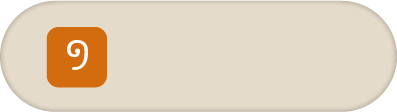
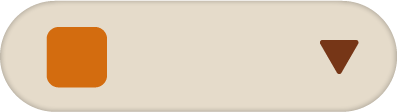
delete and validation on account

Changed region(s): [[0.7859, 0.3482, 0.9068, 0.6696], [0.1511, 0.3482, 0.2418, 0.6429]]

diff --git a/www/css/account.min.css b/www/css/account.min.css
@@ -1,1 +1,1 @@
-@font-face{font-family:'Daun Teav';src:url(../fonts/DaunTeav.ttf);src:url(../fonts/DaunTeav.ttf) format("truetype"),url(../fonts/DaunTeav.woff) format("woff"),url(../fonts/DaunTeav.woff2) format("woff2"),url(../fonts/DaunTeav.eot?#iefix) format("embedded-opentype"),url(../fonts/DaunTeav.svg#AngDaunTeav) format("svg");font-weight:400;font-style:normal}ion-view{font-family:"Daun Teav"!important}.app-background{background:url(../img/app-background.png) center center no-repeat fixed;background-size:cover}.activated{opacity:.3}.account-panel{display:block;background:url(../img/account/account.png) center center no-repeat;background-size:92% 92%;height:90%;margin-top:3.5%;width:100%}.split-left{display:inline-block;position:relative;float:left;width:40%;height:100%}.split-right{display:inline-block;position:relative;width:50%;height:60%}.account-previous{display:inline-block;float:left;background:url(../img/account/previous.png) 44.6% 48% no-repeat fixed;background-size:2.4%;width:13%;height:100%}.avatar-selection{display:inline-block;width:37%;height:59%;position:fixed;margin-top:3%}.avatar-selection div:last-child{position:relative;background:url(../img/account/save.png) center center no-repeat;background-size:contain;width:67%;height:16%;margin-left:17%;margin-top:1%}.avatar-selection .selected{opacity:.5}.avatar-item{display:inline-block;position:relative;background:url(../img/avatar/avatar.png) center center no-repeat;width:29%;height:35%;background-size:contain;margin-right:2%;margin-left:1.5%;cursor:pointer}.avatar-item:visited{opacity:.3}.account-next{display:inline-block;background:url(../img/account/next.png) 86% 48% no-repeat fixed;background-size:2.4%;width:13%;height:100%;margin-left:74%}.account-name{background:url(../img/account/name.png) center center no-repeat;background-size:cover;width:75.5%;margin-left:21.3%!important;margin-top:8%!important;height:9%}input[type=text]#name::-webkit-input-placeholder{color:#763617;font-size:22px}.select-grade{background:url(../img/account/grade.png) center center no-repeat;background-size:contain;margin-top:4%;margin-left:22%;width:43.5%;float:left}.select-grade .input-label{font-size:22px;color:#763617;margin-left:25%}.select-type{background:url(../img/account/grade-type.png) center center no-repeat;background-size:contain;margin-top:4%;margin-left:24%;width:34%;height:10%}
+@font-face{font-family:'Daun Teav';src:url(../fonts/DaunTeav.ttf);src:url(../fonts/DaunTeav.ttf) format("truetype"),url(../fonts/DaunTeav.woff) format("woff"),url(../fonts/DaunTeav.woff2) format("woff2"),url(../fonts/DaunTeav.eot?#iefix) format("embedded-opentype"),url(../fonts/DaunTeav.svg#AngDaunTeav) format("svg");font-weight:400;font-style:normal}ion-view{font-family:"Daun Teav"!important}.app-background{background:url(../img/app-background.png) center center no-repeat fixed;background-size:cover}.activated{opacity:.3}.popup{width:60%!important;font-size:20px;text-align:center}.account-panel{display:block;background:url(../img/account/account.png) center center no-repeat;background-size:92% 92%;height:90%;margin-top:3.5%;width:100%}.split-left{display:inline-block;position:relative;float:left;width:40%;height:100%}.split-right{display:inline-block;position:relative;width:50%;height:60%}.account-previous{display:inline-block;float:left;background:url(../img/account/previous.png) 44.6% 48% no-repeat fixed;background-size:2.4%;width:13%;height:100%}.avatar-selection{display:inline-block;width:37%;height:59%;position:fixed;margin-top:3%}.avatar-selection button:last-child{position:relative;background:url(../img/account/save.png) center center no-repeat;background-size:contain;width:67%;height:16%;margin-left:17%;margin-top:1%;border:none}.avatar-selection .selected{opacity:.5}.avatar-item{display:inline-block;position:relative;background:center center no-repeat;width:29%;height:35%;background-size:contain;margin-right:2%;margin-left:1.5%;cursor:pointer;opacity:.3}.account-next{display:inline-block;background:url(../img/account/next.png) 86% 48% no-repeat fixed;background-size:2.4%;width:13%;height:100%;margin-left:74%}.account-name{background:url(../img/account/name.png) center center no-repeat;background-size:cover;width:75.5%;margin-left:21.3%!important;margin-top:8%!important;height:9%}input[type=text]#name::-webkit-input-placeholder{color:#763617;font-size:22px}.select-grade{background:url(../img/account/grade.png) center center no-repeat;background-size:contain;margin-top:6%;margin-left:22%;width:43.5%;height:11%;float:left}.select-grade .input-label{font-size:22px;color:#763617;margin-left:25%}.select-type{background:url(../img/account/grade-type.png) center center no-repeat;background-size:contain;margin-top:6%;width:34%;height:11%}.select-type select{margin-left:20%;background-color:#fff}.item-select:after{content:none!important}.select-type select option:checked{color:red}

diff --git a/www/css/lesson.min.css b/www/css/lesson.min.css
@@ -1,1 +1,1 @@
-@font-face{font-family:'Daun Teav';src:url(../fonts/DaunTeav.ttf);src:url(../fonts/DaunTeav.ttf) format("truetype"),url(../fonts/DaunTeav.woff) format("woff"),url(../fonts/DaunTeav.woff2) format("woff2"),url(../fonts/DaunTeav.eot?#iefix) format("embedded-opentype"),url(../fonts/DaunTeav.svg#AngDaunTeav) format("svg");font-weight:400;font-style:normal}ion-view{font-family:"Daun Teav"!important}.app-background{background:url(../img/app-background.png) center center no-repeat fixed;background-size:cover}.activated{opacity:.3}.lesson-background{background:url(../img/lesson/lesson-background.png) center center no-repeat fixed;background-size:cover}.lesson-contain{display:block;float:right;margin-top:10%;width:54%;height:65%}.lesson-item{display:inline-block;position:relative;background:url(../img/lesson/lesson-book.png) center center no-repeat;width:25%;height:37%;margin-bottom:13%;margin-left:4%;background-size:contain;text-align:center}.grade-text{display:block;float:left;margin-top:24%;margin-left:11%;width:20%;text-align:center;color:#26bcf7;font-size:61px}.lesson-text{display:block;position:relative;color:#EFCA2B;font-size:20px;margin-top:18%}.lesson-numeric-text{display:block;position:relative;color:#EFCA2B;font-size:63px;text-align:center;margin-top:25%}.lesson-next-previous{display:block;position:relative;width:60%;height:15%;margin-bottom:0;float:right}.lesson-next{display:inline-block;position:relative;background:url(../img/lesson/next.png) center center no-repeat;margin-left:3%;width:10%;height:100%;background-size:contain}.lesson-previous{display:inline-block;position:relative;background:url(../img/lesson/previous.png) center center no-repeat;width:10%;height:100%;margin-left:41%;background-size:contain}
+@font-face{font-family:'Daun Teav';src:url(../fonts/DaunTeav.ttf);src:url(../fonts/DaunTeav.ttf) format("truetype"),url(../fonts/DaunTeav.woff) format("woff"),url(../fonts/DaunTeav.woff2) format("woff2"),url(../fonts/DaunTeav.eot?#iefix) format("embedded-opentype"),url(../fonts/DaunTeav.svg#AngDaunTeav) format("svg");font-weight:400;font-style:normal}ion-view{font-family:"Daun Teav"!important}.app-background{background:url(../img/app-background.png) center center no-repeat fixed;background-size:cover}.activated{opacity:.3}.popup{width:60%!important;font-size:20px;text-align:center}.lesson-background{background:url(../img/lesson/lesson-background.png) center center no-repeat fixed;background-size:cover}.lesson-contain{display:block;float:right;margin-top:10%;width:54%;height:65%}.lesson-item{display:inline-block;position:relative;background:url(../img/lesson/lesson-book.png) center center no-repeat;width:25%;height:37%;margin-bottom:13%;margin-left:4%;background-size:contain;text-align:center}.grade-text{display:block;float:left;margin-top:24%;margin-left:11%;width:20%;text-align:center;color:#26bcf7;font-size:61px}.lesson-text{display:block;position:relative;color:#EFCA2B;font-size:20px;margin-top:18%}.lesson-numeric-text{display:block;position:relative;color:#EFCA2B;font-size:63px;text-align:center;margin-top:25%}.lesson-next-previous{display:block;position:relative;width:60%;height:15%;margin-bottom:0;float:right}.lesson-next{display:inline-block;position:relative;background:url(../img/lesson/next.png) center center no-repeat;margin-left:3%;width:10%;height:100%;background-size:contain}.lesson-previous{display:inline-block;position:relative;background:url(../img/lesson/previous.png) center center no-repeat;width:10%;height:100%;margin-left:41%;background-size:contain}

diff --git a/www/css/setting.min.css b/www/css/setting.min.css
@@ -1,1 +1,1 @@
-@font-face{font-family:'Daun Teav';src:url(../fonts/DaunTeav.ttf);src:url(../fonts/DaunTeav.ttf) format("truetype"),url(../fonts/DaunTeav.woff) format("woff"),url(../fonts/DaunTeav.woff2) format("woff2"),url(../fonts/DaunTeav.eot?#iefix) format("embedded-opentype"),url(../fonts/DaunTeav.svg#AngDaunTeav) format("svg");font-weight:400;font-style:normal}ion-view{font-family:"Daun Teav"!important}.app-background{background:url(../img/app-background.png) center center no-repeat fixed;background-size:cover}.activated{opacity:.3}.setting-panel{display:block;background:url(../img/setting/setting-panel.png) center center no-repeat;background-size:93% 91%;height:90%;width:100%;margin-top:3.5%}.user-panel{display:inline-block;position:relative;float:left;text-align:center;width:50%;height:100%}.editing-panel{display:inline-block;position:relative;height:75%;width:50%}.editing-panel div{background-size:contain;margin-left:6%;width:65%;height:21%}.new-user{background:url(../img/setting/new.png) center center no-repeat}.change-user{background:url(../img/setting/change.png) center center no-repeat;margin-top:2%}.delete-user{background:url(../img/setting/delete.png) center center no-repeat;width:28%!important;float:left}.sound{background:url(../img/setting/sound-close.png) center center no-repeat;margin-left:36%!important;width:35%!important}.aboutus{background:url(../img/setting/aboutus.png) center center no-repeat;margin-top:2%}.avatar{background:url(../img/setting/avatar-box.png) center center no-repeat;background-size:contain;margin-top:20%;margin-left:36.5%;width:37%;height:33%}.name{color:#FFF;margin-top:6%;font-size:33px;margin-left:10%}.grade{color:#FFF;margin-top:7%;font-size:28px;margin-left:8%}
+@font-face{font-family:'Daun Teav';src:url(../fonts/DaunTeav.ttf);src:url(../fonts/DaunTeav.ttf) format("truetype"),url(../fonts/DaunTeav.woff) format("woff"),url(../fonts/DaunTeav.woff2) format("woff2"),url(../fonts/DaunTeav.eot?#iefix) format("embedded-opentype"),url(../fonts/DaunTeav.svg#AngDaunTeav) format("svg");font-weight:400;font-style:normal}ion-view{font-family:"Daun Teav"!important}.app-background{background:url(../img/app-background.png) center center no-repeat fixed;background-size:cover}.activated{opacity:.3}.popup{width:60%!important;font-size:20px;text-align:center}.setting-panel{display:block;background:url(../img/setting/setting-panel.png) center center no-repeat;background-size:93% 91%;height:90%;width:100%;margin-top:3.5%}.user-panel{display:inline-block;position:relative;float:left;text-align:center;width:50%;height:100%}.editing-panel{display:inline-block;position:relative;height:75%;width:50%}.editing-panel div{background-size:contain;margin-left:6%;width:65%;height:21%}.new-user{background:url(../img/setting/new.png) center center no-repeat}.change-user{background:url(../img/setting/change.png) center center no-repeat;margin-top:2%}.delete-user{background:url(../img/setting/delete.png) center center no-repeat;width:28%!important;float:left}.sound{background:url(../img/setting/sound-close.png) center center no-repeat;margin-left:36%!important;width:35%!important}.aboutus{background:url(../img/setting/aboutus.png) center center no-repeat;margin-top:2%}.avatar{background:url(../img/setting/avatar-box.png) center center no-repeat;background-size:contain;margin-top:20%;margin-left:36.5%;width:37%;height:33%}.name{color:#FFF;margin-top:6%;font-size:33px;margin-left:10%}.grade{color:#FFF;margin-top:7%;font-size:28px;margin-left:8%}.custom-popup .popup-head{display:none}

diff --git a/www/css/content.min.css b/www/css/content.min.css
@@ -1,1 +1,1 @@
-@font-face{font-family:'Daun Teav';src:url(../fonts/DaunTeav.ttf);src:url(../fonts/DaunTeav.ttf) format("truetype"),url(../fonts/DaunTeav.woff) format("woff"),url(../fonts/DaunTeav.woff2) format("woff2"),url(../fonts/DaunTeav.eot?#iefix) format("embedded-opentype"),url(../fonts/DaunTeav.svg#AngDaunTeav) format("svg");font-weight:400;font-style:normal}ion-view{font-family:"Daun Teav"!important}.app-background{background:url(../img/app-background.png) center center no-repeat fixed;background-size:cover}.activated{opacity:.3}.writing-background{background:url(../img/content/writing-background.png) center center no-repeat fixed;background-size:cover}.writing-contain{display:block;height:85%;margin-top:8%}.content-panel{float:left;text-align:center;font-weight:700;width:34%;height:85%;display:inline-block;position:relative;margin-left:5%}.content-title-numeric{display:block;position:relative;color:#000;font-size:16px;margin-top:6.5%;margin-left:0}.content-title{display:block;position:relative;color:#442C0C;font-size:22px;margin-top:2%}.content-panel img{max-width:90%;min-width:30%;max-height:72%;margin-top:8%}.writing-panel{height:78%;width:48%;display:inline-block;position:relative;background-color:#fff;margin-top:3%;margin-left:7%;border-radius:8%}.writing-footer{display:inline-block;position:relative;margin-left:8%;height:13%;width:85%}.writing-footer div{display:inline-block;background-size:contain;width:18%;height:100%}.previous{background:url(../img/content/previous.png) center center no-repeat}.delete{background:url(../img/content/delete.png) center center no-repeat;margin-left:49%;width:13%!important}.next{background:url(../img/content/next.png) center center no-repeat}
+@font-face{font-family:'Daun Teav';src:url(../fonts/DaunTeav.ttf);src:url(../fonts/DaunTeav.ttf) format("truetype"),url(../fonts/DaunTeav.woff) format("woff"),url(../fonts/DaunTeav.woff2) format("woff2"),url(../fonts/DaunTeav.eot?#iefix) format("embedded-opentype"),url(../fonts/DaunTeav.svg#AngDaunTeav) format("svg");font-weight:400;font-style:normal}ion-view{font-family:"Daun Teav"!important}.app-background{background:url(../img/app-background.png) center center no-repeat fixed;background-size:cover}.activated{opacity:.3}.popup{width:60%!important;font-size:20px;text-align:center}.writing-background{background:url(../img/content/writing-background.png) center center no-repeat fixed;background-size:cover}.writing-contain{display:block;height:85%;margin-top:8%}.content-panel{float:left;text-align:center;font-weight:700;width:34%;height:85%;display:inline-block;position:relative;margin-left:5%}.content-title-numeric{display:block;position:relative;color:#000;font-size:16px;margin-top:6.5%;margin-left:0}.content-title{display:block;position:relative;color:#442C0C;font-size:22px;margin-top:2%}.content-panel img{max-width:90%;min-width:30%;max-height:72%;margin-top:8%}.writing-panel{height:78%;width:48%;display:inline-block;position:relative;background-color:#fff;margin-top:3%;margin-left:7%;border-radius:8%}.writing-footer{display:inline-block;position:relative;margin-left:8%;height:13%;width:85%}.writing-footer div{display:inline-block;background-size:contain;width:18%;height:100%}.previous{background:url(../img/content/previous.png) center center no-repeat}.delete{background:url(../img/content/delete.png) center center no-repeat;margin-left:49%;width:13%!important}.next{background:url(../img/content/next.png) center center no-repeat}

diff --git a/www/templates/account.html b/www/templates/account.html
@@ -1,30 +1,31 @@
 <ion-view class='app-background'>
   <ion-content scroll='false'>
 
-    <a class="button button-icon icon ion-close"></a>
+    <a class="button button-icon icon ion-close" ng-click='goBack()'></a>
     <div class='account-panel'>
         <form name="formAccount" ng-submit="save(user)" style='height: 90%;'>
           <div class='split-left'>
             <img src='img/avatar/avatar.png' style='width: 34%; margin-top: 28%; margin-left: 42%;'>
             <label class="item-input account-name" >
-              <input type="text" placeholder="បំពេញឈ្មោះនៅទីនេះ" id='name' ng-model="user.name">
+              <input type="text" name='username' placeholder="បំពេញឈ្មោះនៅទីនេះ" id='name' ng-model="user.name" required>
             </label>
 
             <label class="item-input item-select select-grade">
-              <div class="input-label">
-                  ថ្នាក់ទី
+              <span style='margin-left:6%; margin-top: 4%; font-size: 19px; color: white;'> {{user.grade}} </span>
+              <div class="input-label"  style='margin-top: 5%; margin-left: 13%;'>
+                ថ្នាក់ទី
               </div>
-              <select style='background-color: transparent; font-size: 22px; color: #763617;' ng-model="user.grade">
-                  <option selected>១</option>
-                  <option >២</option>
+              <select  name='grade' style='background-color: transparent; font-size: 22px; color: #763617;' ng-model="user.grade" required>
+                  <option>១</option>
+                  <option>២</option>
                   <option>៣</option>
               </select>
             </label>
 
             <label class="item-input item-select select-type">
-              <select style='background-color: transparent; font-size: 22px; color: #763617;' ng-model="user.type">
-                  <option selected>ក</option>
-                  <option >ខ</option>
+              <select name='type' style='background-color: transparent; font-size: 22px; color: rgb(118, 54, 23); left: -12px; width: 100%;' ng-model="user.type" required>
+                  <option>ក</option>
+                  <option>ខ</option>
                   <option>គ</option>
               </select>
             </label>
@@ -35,9 +36,9 @@
             <div class="avatar-selection">
               <div class="avatar-item" ng-repeat='avatar in avatars'
                     ng-click='select(avatar)'
-                    ng-class="{'selected': avatar.selected}">
+                    ng-class="{'selected': avatar.selected}" style="background-image: url(../img/avatar/avatar.png)">
               </div>
-              <button type='submit' class='button'>Save</button>
+              <button type='submit' class='button' ng-click='checkValidation(formAccount)'></button>
             </div>
             <div class="account-next"></div>
           </div>

diff --git a/www/css/user.min.css b/www/css/user.min.css
@@ -1,1 +1,1 @@
-@font-face{font-family:'Daun Teav';src:url(../fonts/DaunTeav.ttf);src:url(../fonts/DaunTeav.ttf) format("truetype"),url(../fonts/DaunTeav.woff) format("woff"),url(../fonts/DaunTeav.woff2) format("woff2"),url(../fonts/DaunTeav.eot?#iefix) format("embedded-opentype"),url(../fonts/DaunTeav.svg#AngDaunTeav) format("svg");font-weight:400;font-style:normal}ion-view{font-family:"Daun Teav"!important}.app-background{background:url(../img/app-background.png) center center no-repeat fixed;background-size:cover}.activated{opacity:.3}.contain-panel{display:block;background:url(../img/user/user-panel.png) center center no-repeat;background-size:93% 91%;height:90%;width:100%;margin-top:3.5%}.user-previous{display:inline-block;position:relative;background:url(../img/user/previous.png) center center no-repeat;background-size:contain;float:left;width:2.8%;height:100%;margin-left:6.2%;margin-right:2%}.user-item{display:inline-block;position:fixed;width:37%;height:90%;margin-left:1.3%;color:#763617;text-align:center}div.user-item:nth-last-of-type(2){margin-left:40%}.user-item p{margin-top:6%;font-size:29px}.user-item p+p{font-size:24px}.user-item div{background:url(../img/user/save.png) center center no-repeat;background-size:contain;width:66%;height:13%;margin-left:18%}.user-next{display:inline-block;position:relative;background:url(../img/user/next.png) center center no-repeat;background-size:contain;width:2.8%;height:100%;margin-left:79%}
+@font-face{font-family:'Daun Teav';src:url(../fonts/DaunTeav.ttf);src:url(../fonts/DaunTeav.ttf) format("truetype"),url(../fonts/DaunTeav.woff) format("woff"),url(../fonts/DaunTeav.woff2) format("woff2"),url(../fonts/DaunTeav.eot?#iefix) format("embedded-opentype"),url(../fonts/DaunTeav.svg#AngDaunTeav) format("svg");font-weight:400;font-style:normal}ion-view{font-family:"Daun Teav"!important}.app-background{background:url(../img/app-background.png) center center no-repeat fixed;background-size:cover}.activated{opacity:.3}.popup{width:60%!important;font-size:20px;text-align:center}.contain-panel{display:block;background:url(../img/user/user-panel.png) center center no-repeat;background-size:93% 91%;height:90%;width:100%;margin-top:3.5%}.user-previous{display:inline-block;position:fixed;background:url(../img/user/previous.png) center center no-repeat;background-size:contain;float:left;width:2.8%;height:100%;margin-left:7.2%;margin-top:-2.8%}.user-item{display:inline-block;position:fixed;width:37%;height:90%;margin-left:1.3%;color:#763617;text-align:center}div.user-item:nth-last-of-type(2){margin-left:40%}.user-item p{margin-top:6%;font-size:29px}.user-item p+p{font-size:24px}.user-item div{background:url(../img/user/save.png) center center no-repeat;background-size:contain;width:66%;height:13%;margin-left:18%}.user-next{display:inline-block;position:relative;background:url(../img/user/next.png) center center no-repeat;background-size:contain;width:2.8%;height:100%;margin-left:90%}

diff --git a/www/css/method.min.css b/www/css/method.min.css
@@ -1,1 +1,1 @@
-@font-face{font-family:'Daun Teav';src:url(../fonts/DaunTeav.ttf);src:url(../fonts/DaunTeav.ttf) format("truetype"),url(../fonts/DaunTeav.woff) format("woff"),url(../fonts/DaunTeav.woff2) format("woff2"),url(../fonts/DaunTeav.eot?#iefix) format("embedded-opentype"),url(../fonts/DaunTeav.svg#AngDaunTeav) format("svg");font-weight:400;font-style:normal}ion-view{font-family:"Daun Teav"!important}.app-background{background:url(../img/app-background.png) center center no-repeat fixed;background-size:cover}.activated{opacity:.3}.method-background{background:url(../img/method/method-background.png) center center no-repeat fixed;background-size:cover}.lesson-title-contain{background:url(../img/method/lesson-title-bar.png) center center no-repeat;background-size:contain;text-align:center;line-height:1.5;margin-top:6%;padding:1.5%}.method-lesson-text{color:#f8f8f8;font-size:120%}.lesson-title{color:#FCDE00;font-size:200%}.method-contain{display:block;width:80%;height:50%;margin-left:15%;margin-top:3%}.method-item{display:inline-block;margin-left:3%;width:40%;margin-bottom:6%}.method-item img{width:95%}
+@font-face{font-family:'Daun Teav';src:url(../fonts/DaunTeav.ttf);src:url(../fonts/DaunTeav.ttf) format("truetype"),url(../fonts/DaunTeav.woff) format("woff"),url(../fonts/DaunTeav.woff2) format("woff2"),url(../fonts/DaunTeav.eot?#iefix) format("embedded-opentype"),url(../fonts/DaunTeav.svg#AngDaunTeav) format("svg");font-weight:400;font-style:normal}ion-view{font-family:"Daun Teav"!important}.app-background{background:url(../img/app-background.png) center center no-repeat fixed;background-size:cover}.activated{opacity:.3}.popup{width:60%!important;font-size:20px;text-align:center}.method-background{background:url(../img/method/method-background.png) center center no-repeat fixed;background-size:cover}.lesson-title-contain{background:url(../img/method/lesson-title-bar.png) center center no-repeat;background-size:contain;text-align:center;line-height:1.5;margin-top:6%;padding:1.5%}.method-lesson-text{color:#f8f8f8;font-size:120%}.lesson-title{color:#FCDE00;font-size:200%}.method-contain{display:block;width:80%;height:50%;margin-left:15%;margin-top:3%}.method-item{display:inline-block;margin-left:3%;width:40%;margin-bottom:6%}.method-item img{width:95%}

diff --git a/www/css/account.css b/www/css/account.css
@@ -15,6 +15,11 @@ ion-view {
 .activated {
   opacity: .3; }
 
+.popup {
+  width: 60% !important;
+  font-size: 20px;
+  text-align: center; }
+
 .account-panel {
   display: block;
   background: url(../img/account/account.png) center center no-repeat;
@@ -51,14 +56,15 @@ ion-view {
   position: fixed;
   margin-top: 3%; }
 
-.avatar-selection div:last-child {
+.avatar-selection button:last-child {
   position: relative;
-  background: url(../img/account/save.png) center center no-repeat;
+  background: url("../img/account/save.png") center center no-repeat;
   background-size: contain;
   width: 67%;
   height: 16%;
   margin-left: 17%;
-  margin-top: 1%; }
+  margin-top: 1%;
+  border: none; }
 
 .avatar-selection .selected {
   opacity: 0.5; }
@@ -66,15 +72,13 @@ ion-view {
 .avatar-item {
   display: inline-block;
   position: relative;
-  background: url(../img/avatar/avatar.png) center center no-repeat;
+  background: center center no-repeat;
   width: 29%;
   height: 35%;
   background-size: contain;
   margin-right: 2%;
   margin-left: 1.5%;
-  cursor: pointer; }
-
-.avatar-item:visited {
+  cursor: pointer;
   opacity: .3; }
 
 .account-next {
@@ -100,9 +104,10 @@ input[type="text"]#name::-webkit-input-placeholder {
 .select-grade {
   background: url(../img/account/grade.png) center center no-repeat;
   background-size: contain;
-  margin-top: 4%;
+  margin-top: 6%;
   margin-left: 22%;
   width: 43.5%;
+  height: 11%;
   float: left; }
 
 .select-grade .input-label {
@@ -113,7 +118,16 @@ input[type="text"]#name::-webkit-input-placeholder {
 .select-type {
   background: url("../img/account/grade-type.png") center center no-repeat;
   background-size: contain;
-  margin-top: 4%;
-  margin-left: 24%;
+  margin-top: 6%;
   width: 34%;
-  height: 10%; }
+  height: 11%; }
+
+.select-type select {
+  margin-left: 20%;
+  background-color: white; }
+
+.item-select:after {
+  content: none !important; }
+
+.select-type select option:checked {
+  color: red; }

diff --git a/www/templates/users.html b/www/templates/users.html
@@ -3,21 +3,23 @@
   <ion-content scroll='false'>
     <a class="button button-icon icon ion-close" ui-sref='grades' ng-if='!isHome'></a>
     <div class='contain-panel'>
-      <div class="user-previous" ng-click='previous()'></div>
+      <div class="user-previous" ng-click='previous()' ng-if='offset > 0'></div>
 
-      <div class="user-item" ng-repeat='user in users'>
-        <img src='img/avatar/avatar.png' style="width: 45%; margin-top: 26.5%; ">
-        <p class="user-name">{{user.name}}</p>
-        <p class="user-grade">ថ្នាក់ទី {{user.grade}} " {{user.type}} " </p>
-        <div ui-sref='grades' ng-click='setCurrentUser(user)'></div>
+      <div style="margin-left: 11%;">
+        <div class="user-item" ng-repeat='user in users'>
+          <img src='img/avatar/avatar.png' style="width: 45%; margin-top: 26.5%; ">
+          <p class="user-name">{{user.name}}</p>
+          <p class="user-grade">ថ្នាក់ទី {{user.grade}} " {{user.type}} " </p>
+          <div ui-sref='grades' ng-click='setCurrentUser(user)'></div>
+        </div>
       </div>
 
-      <div class="user-item" style="margin-left: 40%;" ng-if='isHome && offset == 0'>
+      <div class="user-item" style="margin-left: 51%;" ng-if='isHome && offset == 0'>
         <img src='img/avatar/avatar.png' style="width: 45%; margin-top: 26.5%;" ui-sref='accounts'>
         <p class="user-name" style="margin-top: 13%;">បងេី្កតថ្មី</p>
       </div>
 
-      <div class="user-next" ng-style='{"margin-top": isHome ? "0%" : "-9.9%"}' ng-click='next()'> </div>
+      <div class="user-next" ng-style='{"margin-top": isHome ? "0%" : "-9.9%"}' ng-click='next()' ng-if='offset + 1 < nbUsers'> </div>
     </div>
 
   </ion-content>

diff --git a/www/js/users/accounts-controllers.js b/www/js/users/accounts-controllers.js
@@ -1,10 +1,11 @@
 angular.module('app')
 
-.controller("AccountsCtrl", function ($scope, AccountsServices) {
+.controller("AccountsCtrl", function ($scope, AccountsServices, $state, UsersServices, $ionicHistory, $ionicPopup) {
   var vm = $scope;
   var selectedAvatar;
 
   vm.avatars = AccountsServices.getAvatars();
+  vm.user = {"grade" : "១", "type" : "ក"}
 
   vm.select = function (avatar) {
     if(selectedAvatar && avatar.id != selectedAvatar.id){
@@ -15,7 +16,38 @@ angular.module('app')
   }
 
   vm.save = function(userParams) {
-    AccountsServices.addUser(userParams, selectedAvatar);
+    AccountsServices.addUser(userParams, selectedAvatar).then(function (user) {
+      $state.go('grades');
+      UsersServices.setCurrentUser(user);
+    });
+  }
+
+  vm.goBack = function() {
+    $ionicHistory.goBack();
+  }
+
+  vm.checkValidation = function(form) {
+    if(form.$invalid){
+      var template = "";
+      if(form.username.$error.required){
+        template = template +  "<p style='color: red'> សូមបំពេញឈ្មោះរបស់អ្នក </p>"
+      }
+      if(form.grade.$error.required){
+        template += "<p style='color: red'>សូមបំពេញឈ្មោះថ្នាក់</p>"
+      }
+      if(form.type.$error.required){
+        template += "<p style='color: red'>សូមបំពេញកម្រិតថ្នាក់"
+      }
+      var myPopup = $ionicPopup.show({
+        template: template,
+        title: 'គណនីបង្កេីតមិនត្រឹមត្រូវ',
+        buttons: [
+          { text: 'យល់ព្រម',
+            type: 'button-balanced'
+          }
+        ]
+      });
+    }
   }
 
 

diff --git a/www/css/grade.min.css b/www/css/grade.min.css
@@ -1,1 +1,1 @@
-@font-face{font-family:'Daun Teav';src:url(../fonts/DaunTeav.ttf);src:url(../fonts/DaunTeav.ttf) format("truetype"),url(../fonts/DaunTeav.woff) format("woff"),url(../fonts/DaunTeav.woff2) format("woff2"),url(../fonts/DaunTeav.eot?#iefix) format("embedded-opentype"),url(../fonts/DaunTeav.svg#AngDaunTeav) format("svg");font-weight:400;font-style:normal}ion-view{font-family:"Daun Teav"!important}.app-background{background:url(../img/app-background.png) center center no-repeat fixed;background-size:cover}.activated{opacity:.3}.grade-background{background:url(../img/grade/grade-background.png) center center no-repeat fixed;background-size:cover}.grade-contain{display:block;float:right;margin-right:20%;margin-top:14%;width:45%;height:70%}.grade-item{width:80%;height:28%;margin-left:14%}.grade-item img{width:95%}
+@font-face{font-family:'Daun Teav';src:url(../fonts/DaunTeav.ttf);src:url(../fonts/DaunTeav.ttf) format("truetype"),url(../fonts/DaunTeav.woff) format("woff"),url(../fonts/DaunTeav.woff2) format("woff2"),url(../fonts/DaunTeav.eot?#iefix) format("embedded-opentype"),url(../fonts/DaunTeav.svg#AngDaunTeav) format("svg");font-weight:400;font-style:normal}ion-view{font-family:"Daun Teav"!important}.app-background{background:url(../img/app-background.png) center center no-repeat fixed;background-size:cover}.activated{opacity:.3}.popup{width:60%!important;font-size:20px;text-align:center}.grade-background{background:url(../img/grade/grade-background.png) center center no-repeat fixed;background-size:cover}.grade-contain{display:block;float:right;margin-right:20%;margin-top:14%;width:45%;height:70%}.grade-item{width:80%;height:28%;margin-left:14%}.grade-item img{width:95%}

diff --git a/www/js/users/users-controller.js b/www/js/users/users-controller.js
@@ -1,11 +1,20 @@
 angular.module('app')
 
-.controller('UsersCtrl', function($scope, isHome, UsersServices) {
+.controller('UsersCtrl', function($scope, isHome, UsersServices, $ionicPlatform, $cordovaFile, $cordovaSQLite) {
   var vm = $scope;
   vm.isHome = isHome;
   vm.offset = 0;
 
   vm.users = [];
+
+  vm.nbUsers = 0;
+
+  function numberOfUsers(){
+    UsersServices.numberOfUsers().then(function(count){
+      vm.nbUsers = count;
+    });
+  }
+
   vm.setCurrentUser = function(user){
     UsersServices.setCurrentUser(user);
   }
@@ -26,15 +35,37 @@ angular.module('app')
     getUsers();
   }
 
-  getUsers();
-
   function getUsers() {
     UsersServices.getUsers(vm.offset).then(function(users){
       vm.users = users;
     });
   }
 
+  numberOfUsers();
+  getUsers();
 
+  // $ionicPlatform.ready(function() {
+  //   var isDatabaseCopied = getDatabaseCopied();
+  //   if(!isDatabaseCopied){
+  //     $cordovaFile.copyFile(cordova.file.applicationDirectory + 'www/', "khmer-writing.db", cordova.file.dataDirectory, "khmer-writing.db")
+  //       .then(function () {
+  //         db = $cordovaSQLite.openDB({ name: "khmer-writing.db"});
+  //         setDatabaseCopied(true);
+  //         createTables($cordovaSQLite);
+  //         numberOfUsers();
+  //         getUsers();
+  //     }, function (error) {
+  //       console.log('error file transfer : ', error);
+  //     });
+  //   }
+  //   else{
+  //     db = $cordovaSQLite.openDB({ name: "khmer-writing.db"});
+  //     createTables($cordovaSQLite);
+  //     numberOfUsers();
+  //     getUsers();
+  //   }
+
+  // })
 
 
 })
